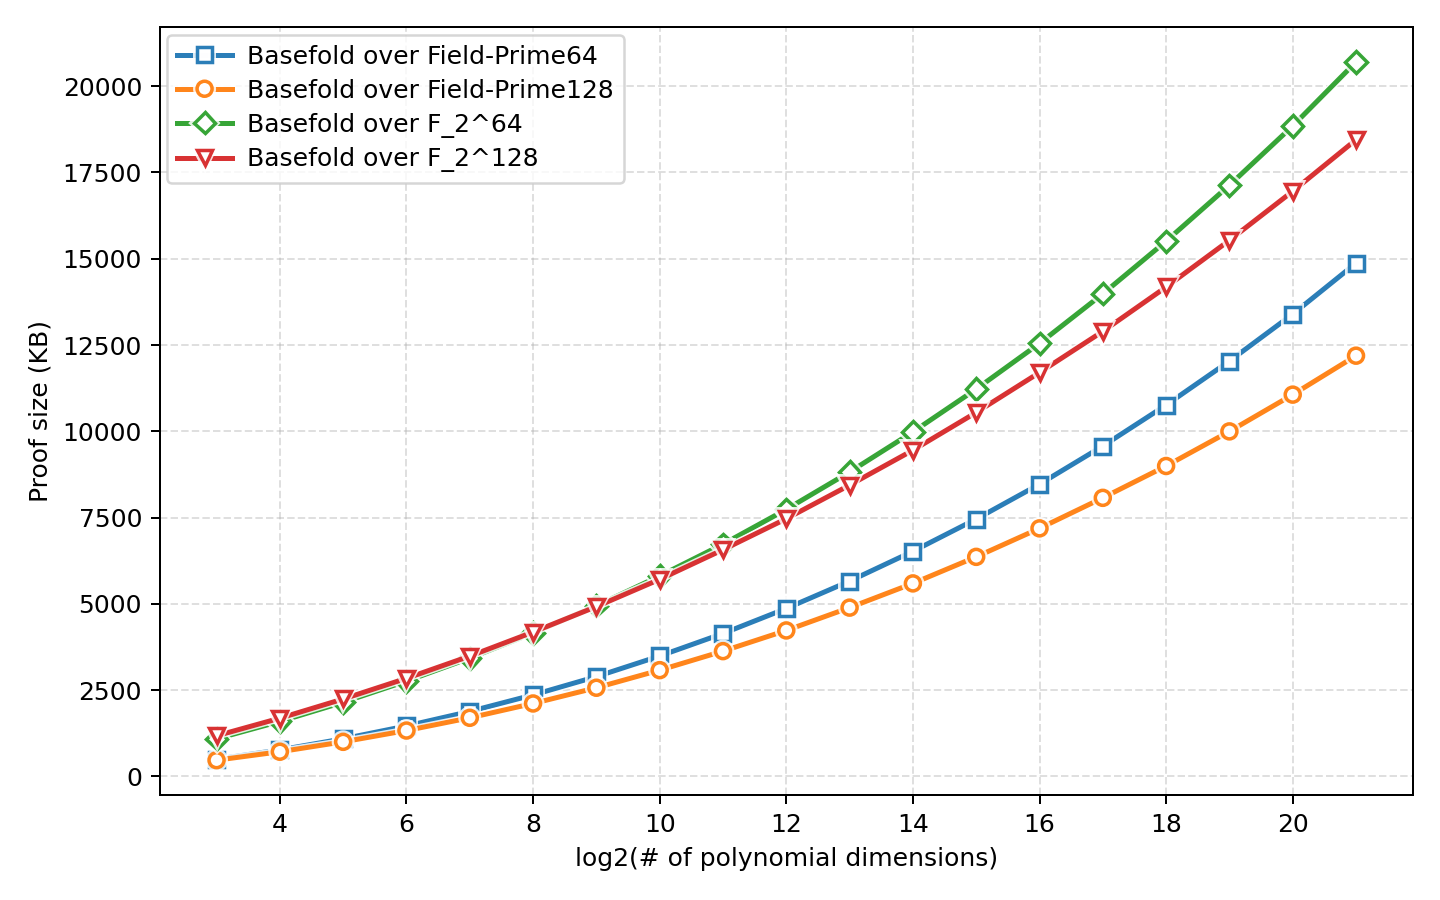
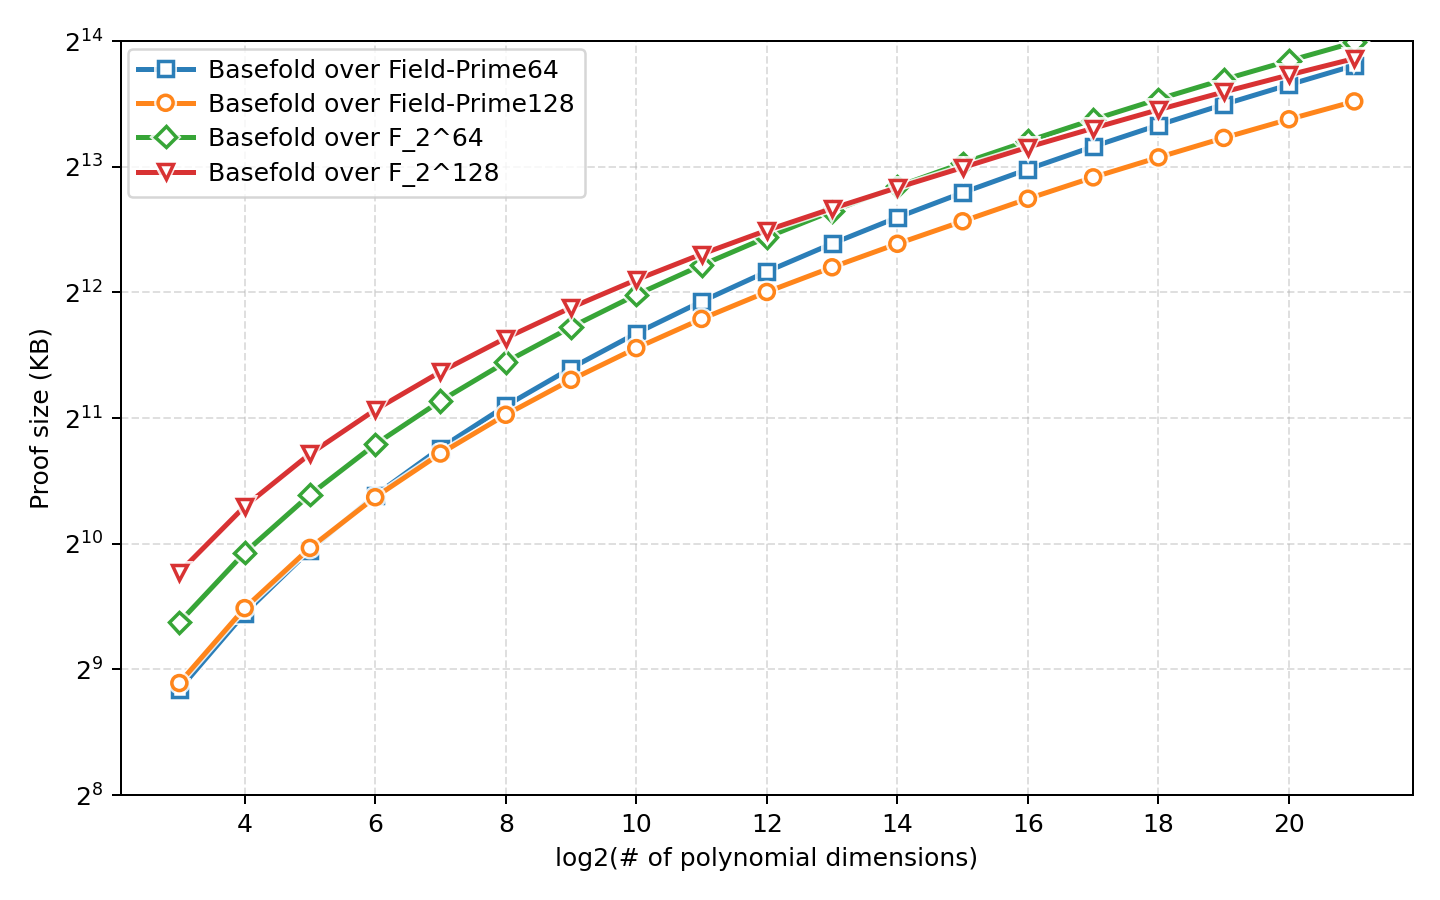
feat: Update benchmark plotting script to enhance y-axis scaling and formatting

diff --git a/scripts/plot_benchmark_results.py b/scripts/plot_benchmark_results.py
@@ -26,7 +26,7 @@ import matplotlib.pyplot as plt
 import matplotlib.patheffects as pe
 from matplotlib.legend_handler import HandlerLine2D
 from matplotlib.lines import Line2D
-from matplotlib.ticker import MaxNLocator
+from matplotlib.ticker import FuncFormatter, LogLocator, MaxNLocator
 
 
 @dataclass(frozen=True)
@@ -114,6 +114,16 @@ def _series_label(csv_path: Path, labels: set[str]) -> str:
     return f"Basefold over {raw_label}"
 
 
+def _format_power_of_two(value: float, _pos: int) -> str:
+    if value <= 0:
+        return ""
+    exponent = math.log2(value)
+    rounded = round(exponent)
+    if abs(exponent - rounded) <= 1e-9:
+        return rf"$2^{{{int(rounded)}}}$"
+    return ""
+
+
 def load_series_from_csv(csv_path: Path, metric_keys: Iterable[str]) -> SeriesData:
     metric_values: Dict[str, Dict[float, List[float]]] = {
         key: defaultdict(list) for key in metric_keys
@@ -162,6 +172,7 @@ def plot_metric_vs_d(
     fig, ax = plt.subplots(figsize=(8, 5))
     plotted_count = 0
     all_x_values: List[float] = []
+    all_y_values: List[float] = []
 
     marker_cycle = cycle(["s", "o", "D", "v", "^", "P", "X", "<", ">"])
 
@@ -172,6 +183,7 @@ def plot_metric_vs_d(
         x_values = [x for x, _ in points]
         y_values = [y for _, y in points]
         all_x_values.extend(x_values)
+        all_y_values.extend(y for y in y_values if y > 0)
 
         marker = next(marker_cycle)
         (line,) = ax.plot(
@@ -212,6 +224,17 @@ def plot_metric_vs_d(
         if integer_ticks:
             ax.set_xticks(integer_ticks)
     ax.xaxis.set_major_locator(MaxNLocator(integer=True))
+    if all_y_values:
+        y_min = min(all_y_values)
+        y_max = max(all_y_values)
+        y_min_pow = 2 ** math.floor(math.log2(y_min))
+        y_max_pow = 2 ** math.ceil(math.log2(y_max))
+        if y_max_pow <= y_min_pow:
+            y_max_pow = y_min_pow * 2
+        ax.set_ylim(y_min_pow, y_max_pow)
+    ax.set_yscale("log", base=2)
+    ax.yaxis.set_major_locator(LogLocator(base=2))
+    ax.yaxis.set_major_formatter(FuncFormatter(_format_power_of_two))
 
     if plotted_count > 0:
         ax.legend(
